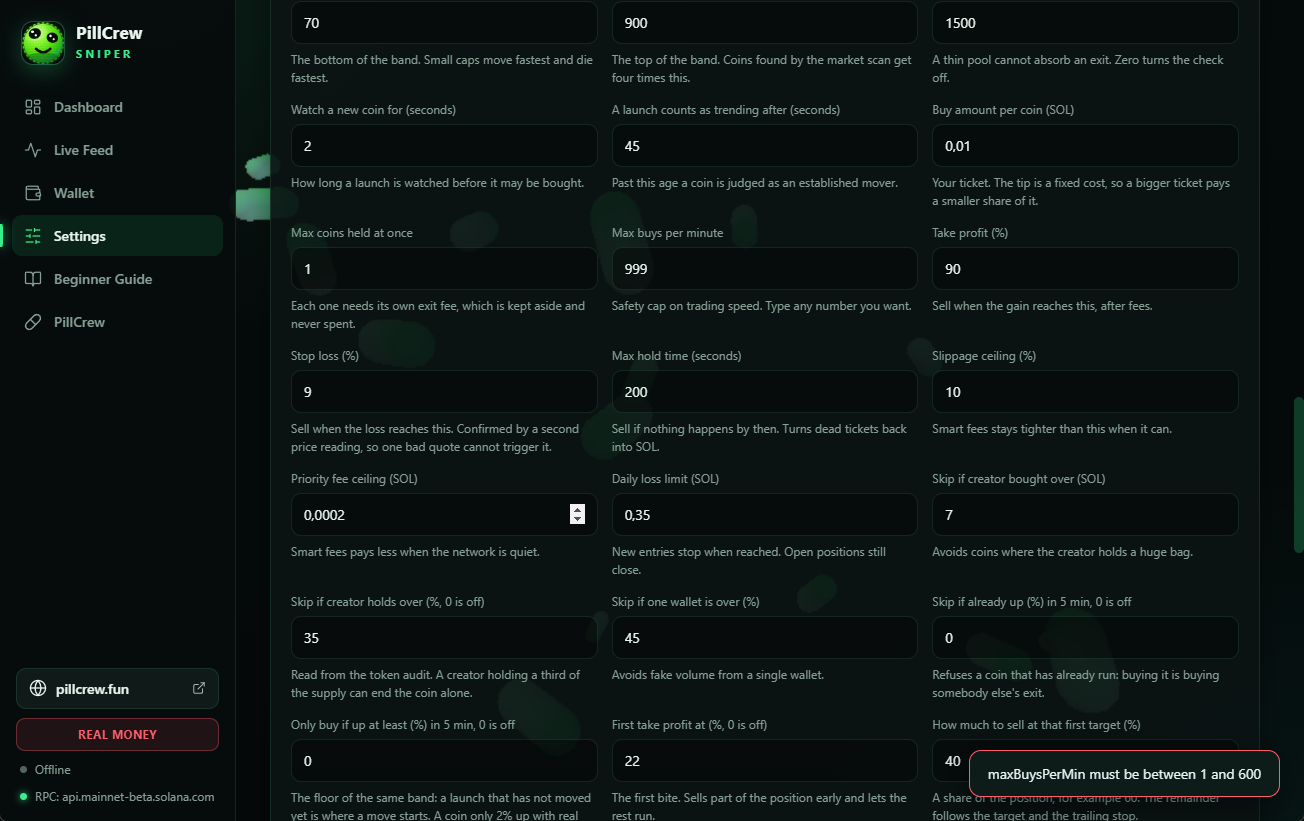
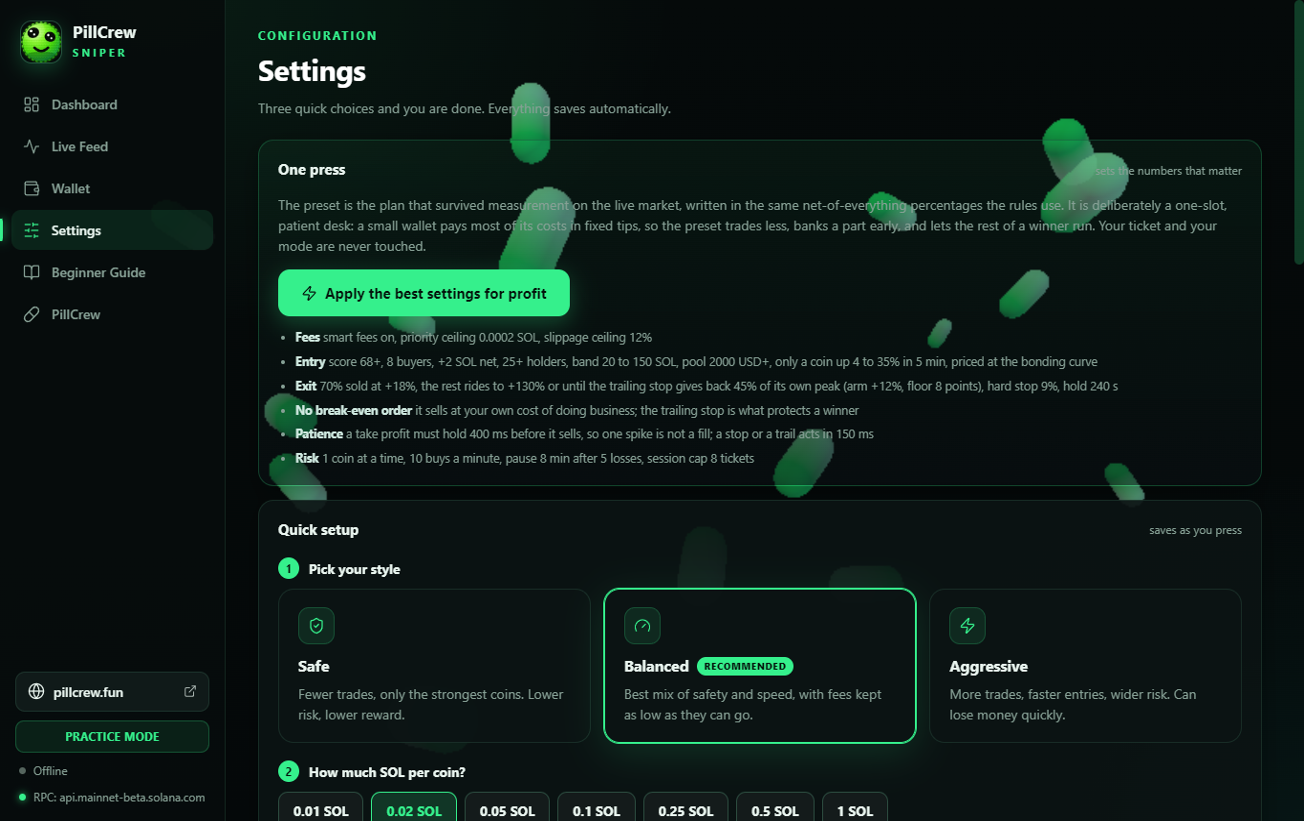
Tidy release docs, MIT license and fresh settings screenshot
Repo housekeeping before the public announcement: the LICENSE is the
canonical MIT text (GitHub now detects it as MIT instead of Other), package.json
and CONTRIBUTING match the open-source state, the changelog's stale preset
numbers are corrected to what ships, and the settings screenshot shows today's
build with the new switches.

diff --git a/CHANGELOG.md b/CHANGELOG.md
@@ -60,7 +60,8 @@ The first public release.
   `maxHoldSec` cannot be set to 0 - which does not turn the time limit off, it sells every coin the moment it is bought.
 - **Codes shared before a setting existed keep working**: the payload is a positional list and new settings are only
   appended, so a shorter list is an older code rather than a damaged one. Every code already posted on X still applies.
-- **A closed trade records why the coin was taken** (`score`, `ch5`, `buyers`) beside what it did.
+- **A closed trade records why the coin was taken** - its score, buyer count and the five-minute picture - beside
+  what it did.
 
 ### The entry was blind, and that is where the win rate went
 
@@ -102,11 +103,11 @@ The first public release.
   needs. Measured in paper against the live market, every profit rule in a session closed between **+6% and +12%**
   while the losses filled at **-21% to -33%**. That is a desk whose winners cannot pay for its losers, and no entry
   rule can rescue it. A coin up 100% wobbles 15-20 points without changing trend.
-- **The preset's exit shape was rewritten for that arithmetic**: 40% banked at +22%, the rest a runner closed by the
-  proportional trail (arm +18%, floor 12 points) or a +130% moon target, stop 9%, hold 240 s.
-- **The entry ceiling came down: skip a coin already up 60% in five minutes** (was 120%). Four entries measured in
-  paper under the old ceiling were all bought near their top and every one of them stopped out; the bars are now
-  score 68 and eight buyers, not 64 and six.
+- **The preset's exit shape was rewritten for that arithmetic**: 70% banked at +18%, the rest a runner closed by the
+  proportional trail (arm +12%, floor 8 points) or a +130% moon target, stop 9%, hold 240 s.
+- **The entry ceiling came down: skip a coin already up 35% in five minutes** (was 120%, briefly 60%). Four entries
+  measured in paper under the old ceiling were all bought near their top and every one of them stopped out; the bars
+  are now score 68 and eight buyers, not 64 and six.
 - **A closed trade keeps what it was worth at best**: the row carries `heldSec`, `peakPct` (the best net move while
   it was held), `firedPct` (the move that fired the rule) and the price source, and the window prints
   `peaked +41% · held 2m` beside the fill. A trade that peaked at +41% and filled at +8% is an exit that was too
@@ -129,9 +130,10 @@ The first public release.
 - **The styles were rewritten around that cost**: take profit 18-45%, first rung 10-15% for half the position, stop
   7-15%, trail arms 6-12% and gives back 3-6%, hold 60-100 s. The exit ranges working snipers converge on, expressed
   in net numbers.
-- **The one press preset is a patient one-slot desk**: score 64+, six buyers, +1.5 SOL net buying, pool 2000 USD+,
-  skip a coin already up 120% in five minutes, half banked at +12%, the rest to +28%, trail 8/4, stop 10%, hold 75 s,
-  ten buys a minute, a ten-minute rest after four losses.
+- **The one press preset is a patient one-slot desk** (the final numbers are in the exit-shape section above and in
+  `docs/SETTINGS.md`): score 68+, eight buyers, +2 SOL net buying, pool 2000 USD+, the 4-35% five-minute band,
+  70% banked at +18%, the rest to +130% or the proportional trail, stop 9%, hold 240 s, ten buys a minute, an
+  eight-minute rest after five losses.
 - **The session cap follows the ticket instead of being a fixed number.** A flat 0.35 SOL was eighty-seven trades at
   a 0.004 SOL ticket - a countdown, not a limit. The preset now writes **eight tickets** (clamped to 0.01-0.35 SOL),
   and a ticket bigger than a third of the cap is lowered to that third.
@@ -275,9 +277,10 @@ The first public release.
 - **The Jupiter API key setting is gone**: the route and the price service need no key, so the field was an option
   that changed nothing.
 
-## 1.0.0
+## Pre-release development
 
-First release.
+Notes written while the build that became [1.0.0] was in progress. The release itself is documented at
+the top; where an early note below says something the release changed, the top wins.
 
 ### Trading
 
@@ -291,8 +294,8 @@ First release.
   wallet concentration and token flags.
 - Exits: take profit, trailing stop after the coin runs, stop loss, creator sold, time limit, and an
   optional first partial take profit that sells part of the position and lets the rest run.
-- An optional break even rule, on in the preset: once a coin has been up a real amount, it is never
-  allowed to become a loss.
+- An optional break even rule that was later turned off everywhere before the release: at a net zero the
+  rule sells at the round trip's own cost, and the trailing stop protects a winner better.
 - Smart fees follow the live fee market and widen slippage when an exit must land.
 - A refused order is answered by the backup route, not by the same door again. Measured on chain, the
   chain refuses a fresh buy with `6002` when the price ran between the quote and the landing, and the

diff --git a/README.md b/README.md
@@ -348,7 +348,8 @@ app allowed in Security settings. A certificate removes both; `docs/BUILD.md` sa
 npm test
 ```
 
-Eleven suites: RPC failover and its time budgets, the on-chain decoder, the engine trade cycle and the
+Eleven suites: RPC failover and its time budgets, the on-chain decoder, a smoke pass over the defaults,
+the engine trade cycle and the
 feed wiring (build retries, late landings, the Jupiter backup), the market scanner and its doors, the
 exit rules and the statistics books, the guards around foreign transactions,
 the wallet and selling everything (adoption, sell-all, one holding, the start gate), the settings code,

diff --git a/CONTRIBUTING.md b/CONTRIBUTING.md
@@ -1,6 +1,6 @@
 # Contributing
 
-This is a private project. The notes below are for whoever works on it.
+PillCrew Sniper is open source (MIT). The notes below are for anyone who wants to work on it.
 
 ## Ground rules
 
